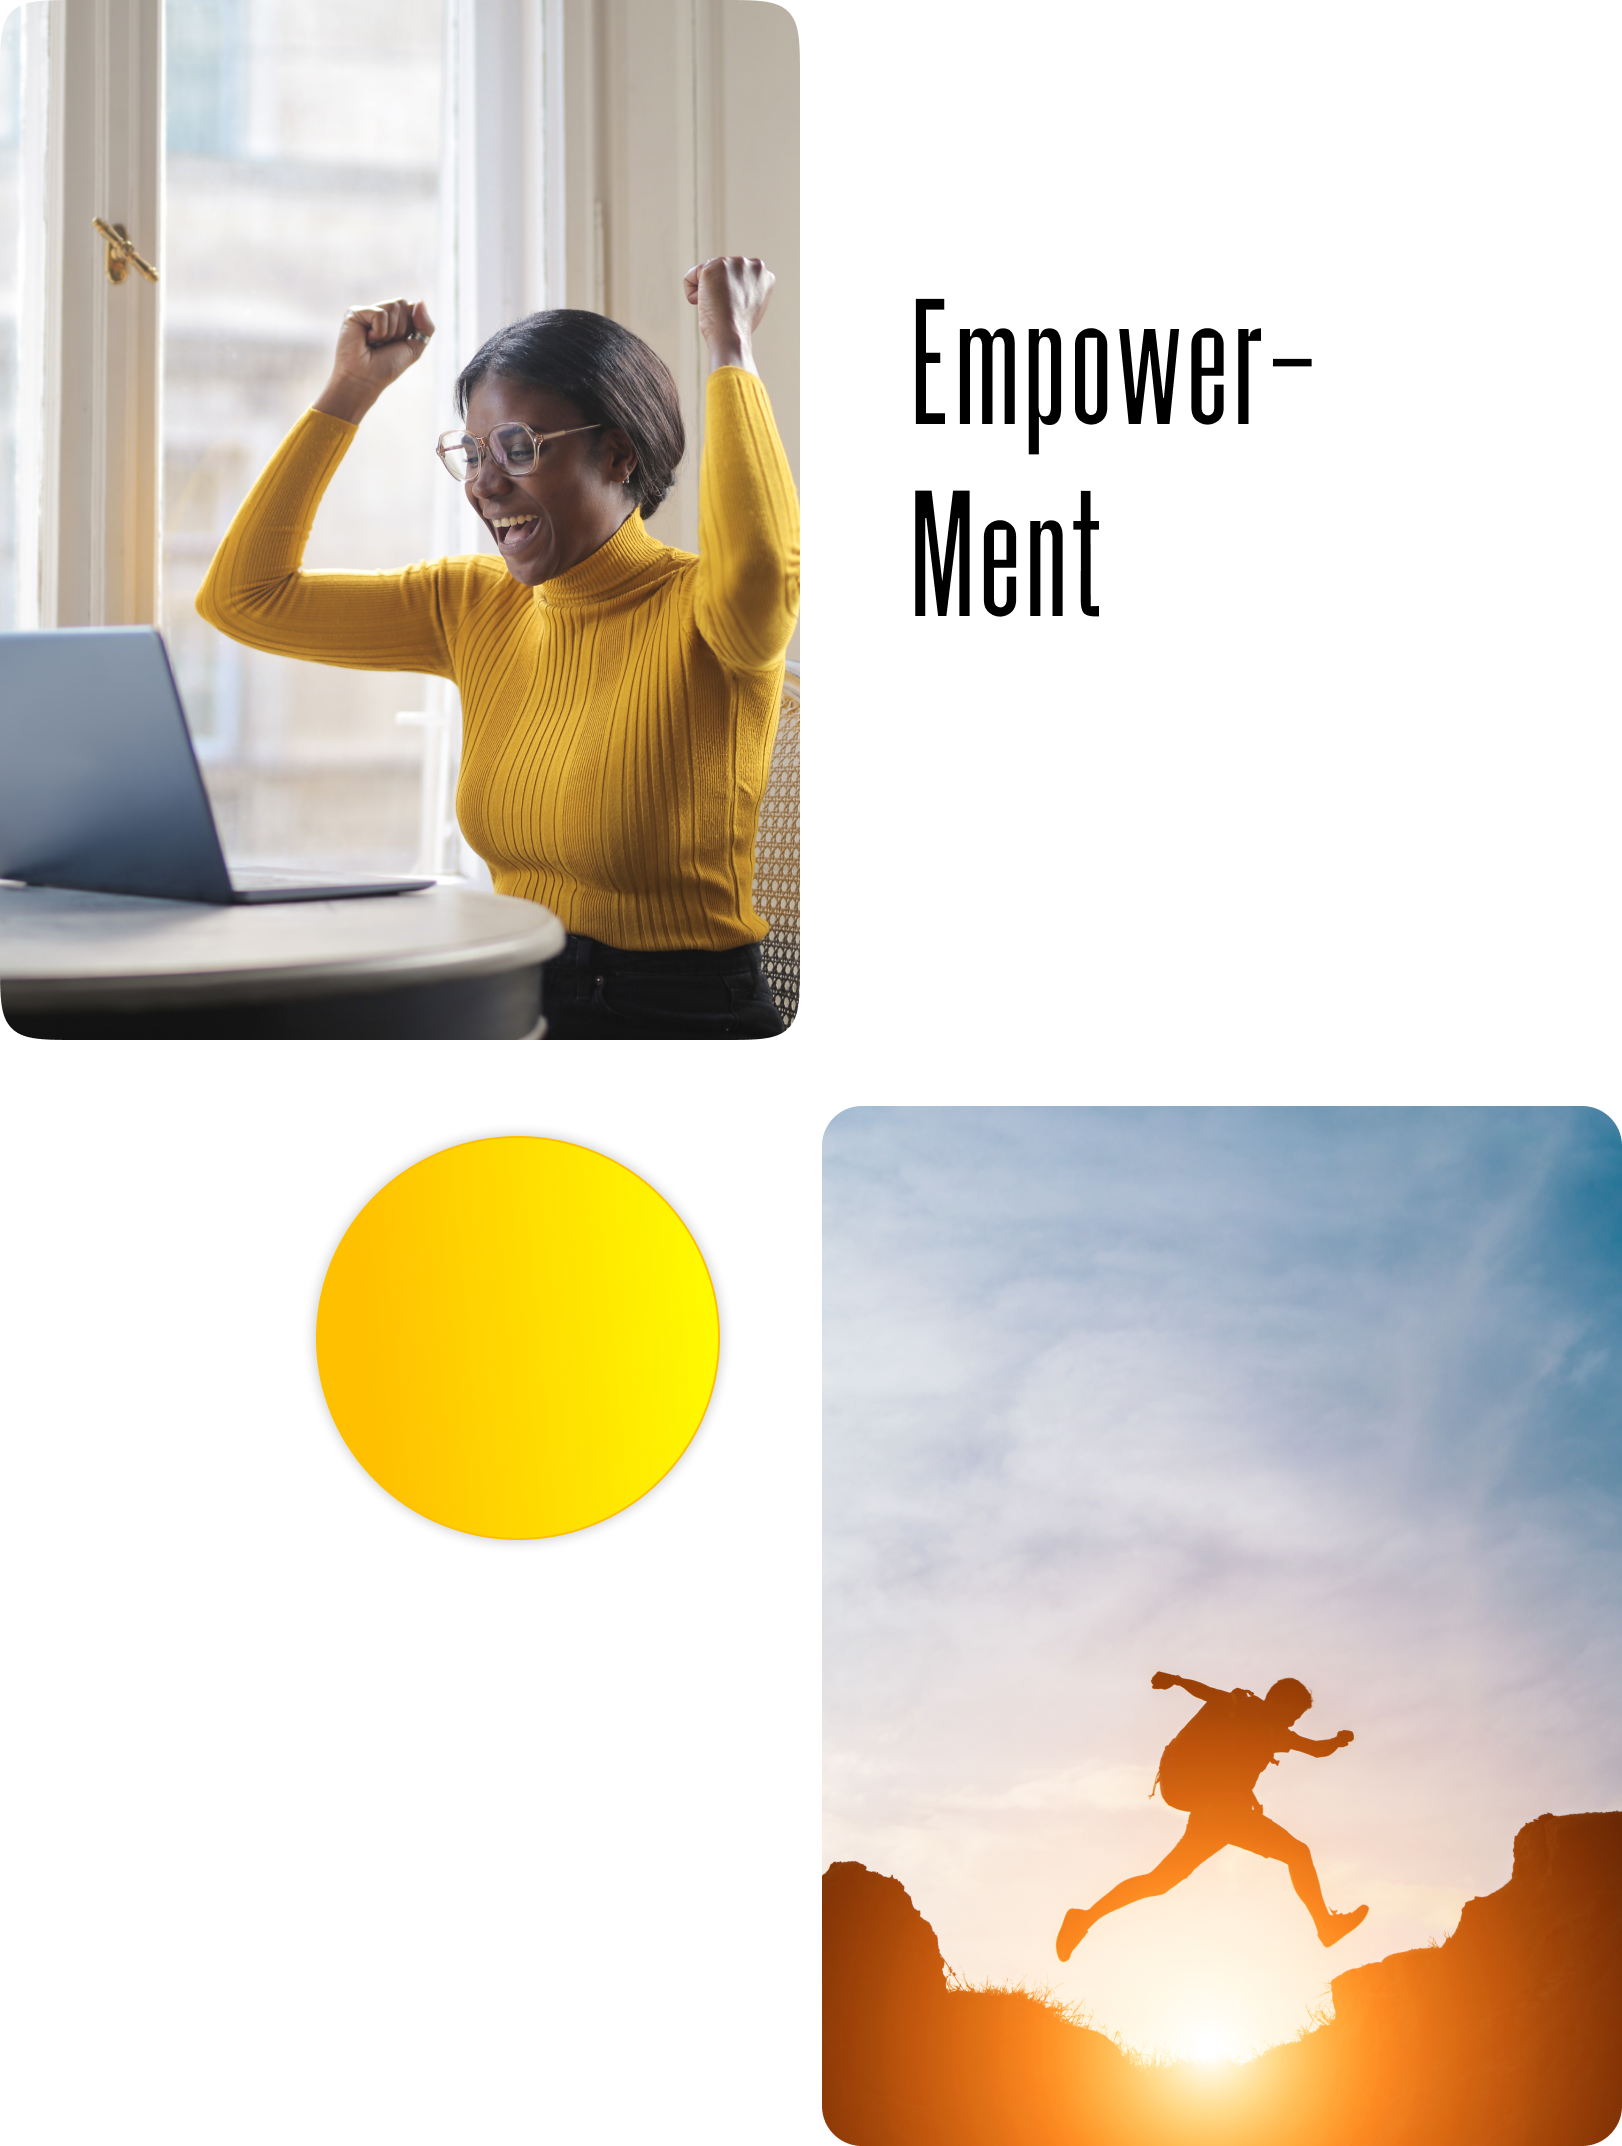
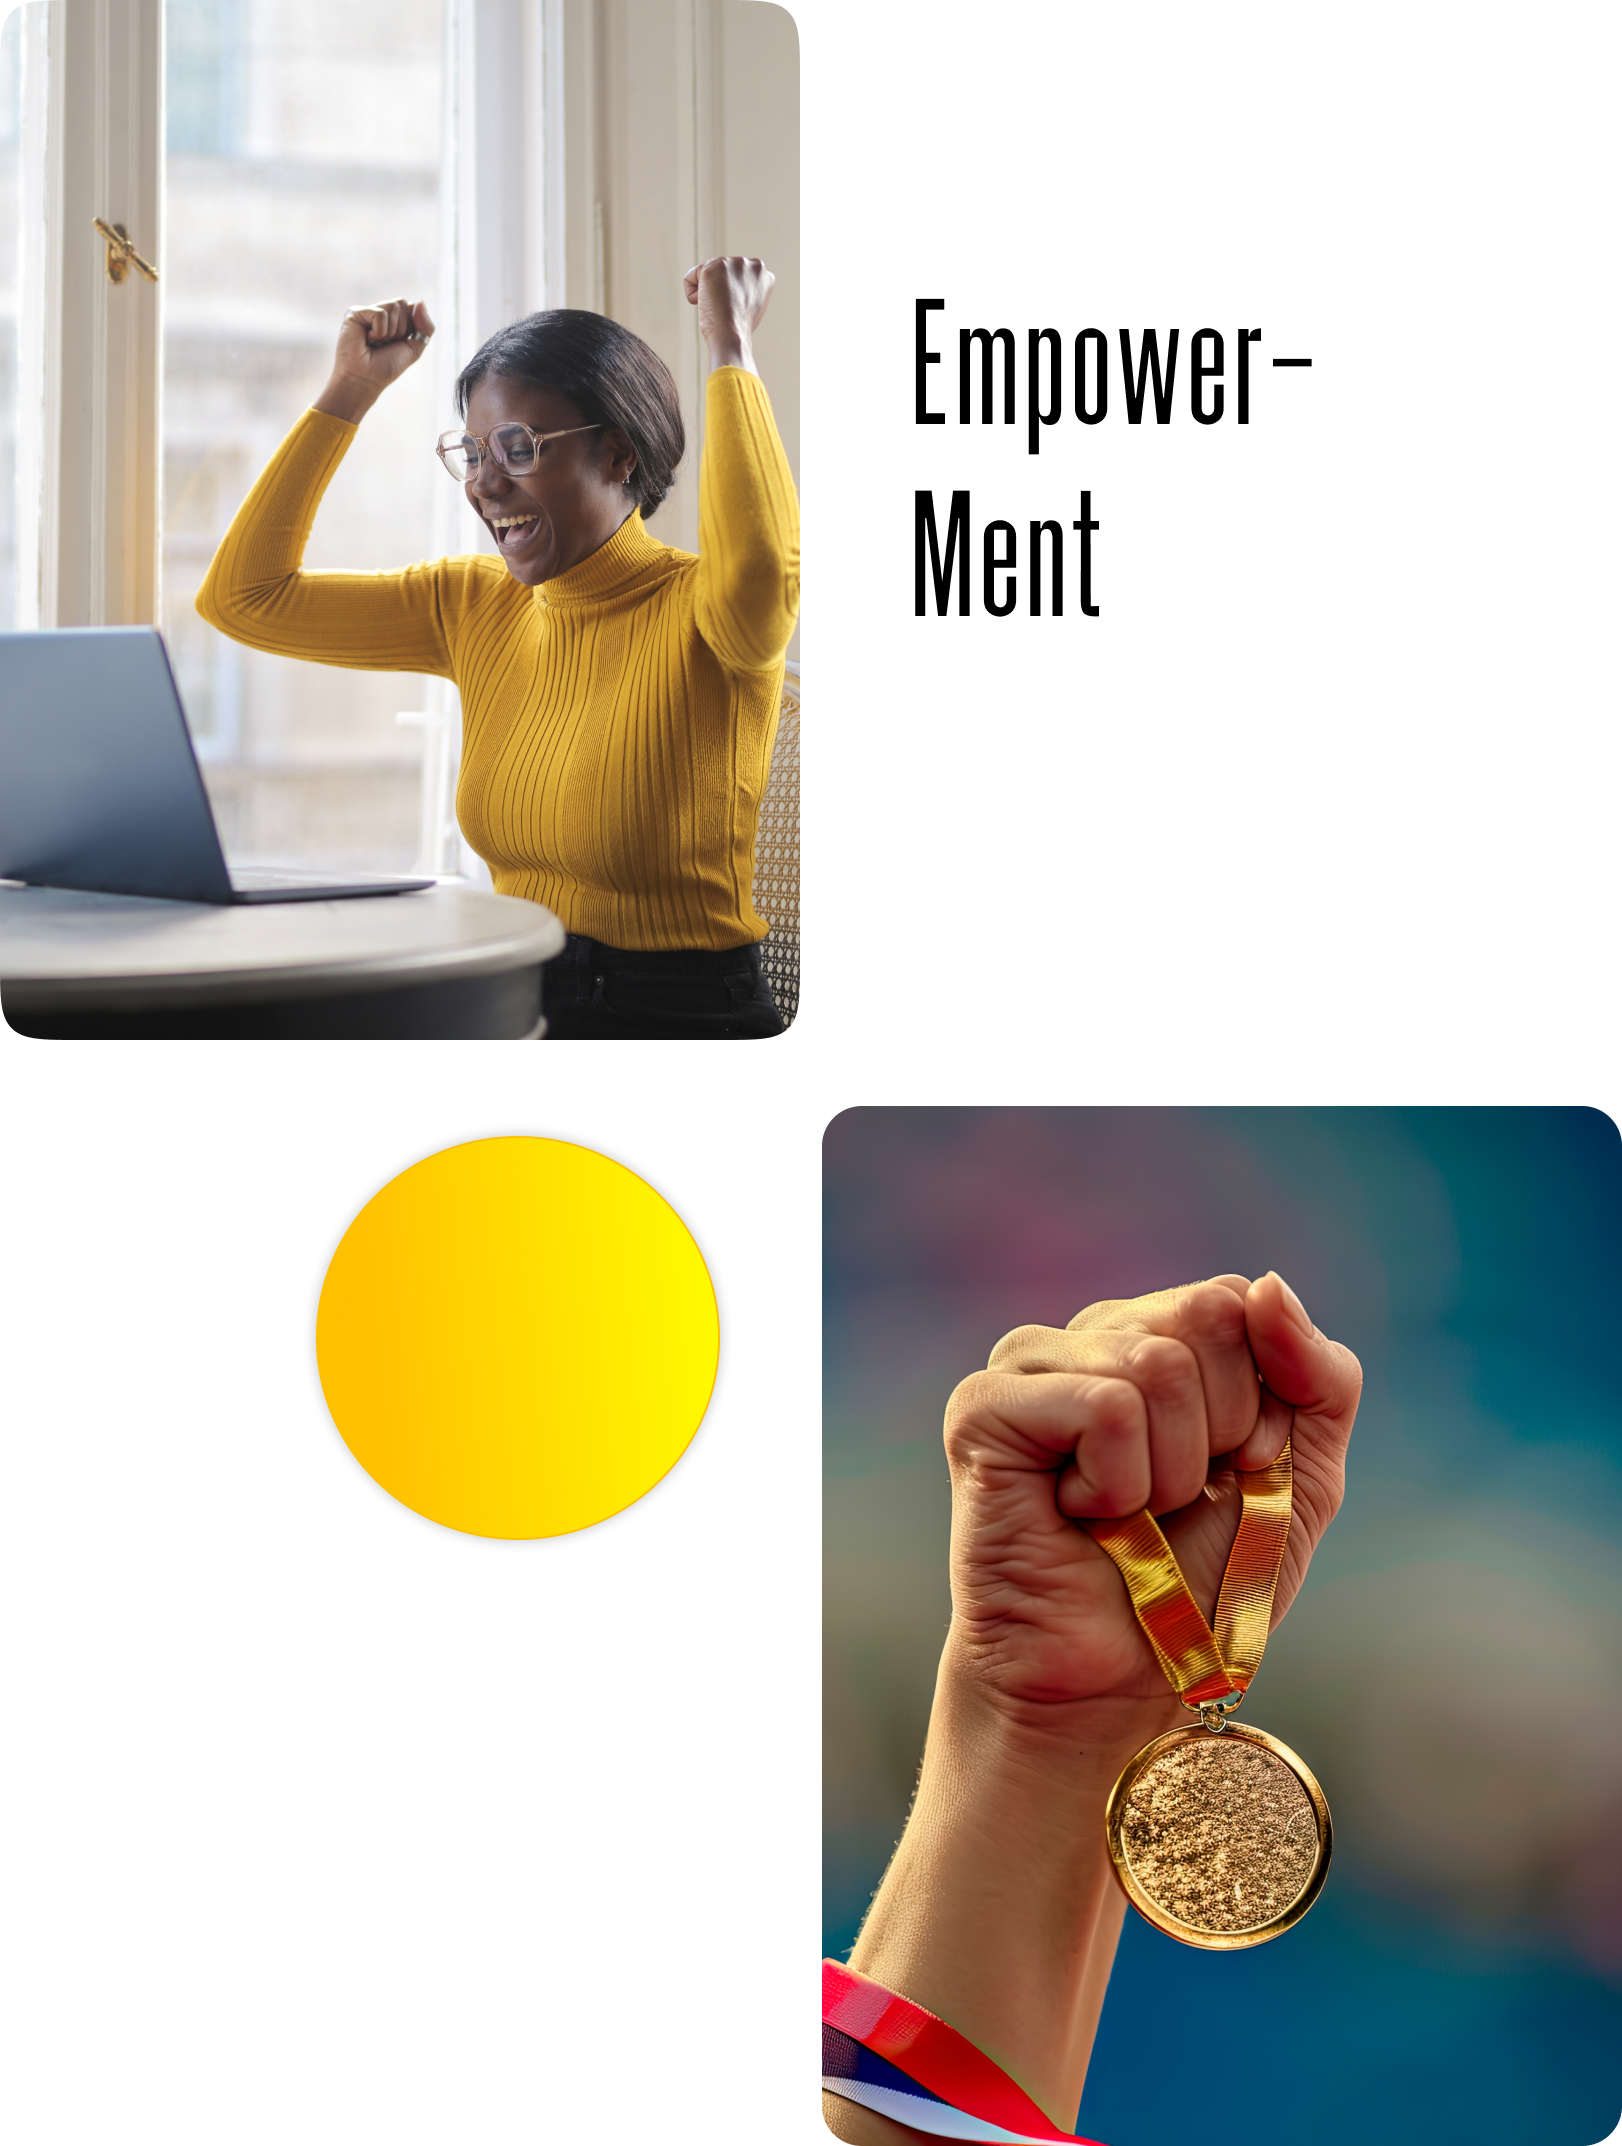
gif, emp, bg

Changed region(s): [[0.4932, 0.4995, 1.0, 1.0]]

diff --git a/src/index.css b/src/index.css
@@ -365,7 +365,13 @@ color: #001a70;
   /* overflow: hidden; */
     }
   }
-  
+
+  .bg-aboutt{
+    background-image: url(assets/IMG_9542.GIF);
+    background-position:scroll ;
+    background-size: cover;
+  }
+
 .content-inner{
   padding: 20px auto;
 }
@@ -587,8 +593,8 @@ box-shadow: 0px 0px 20px #FFC000;
     margin-left: auto;
     margin-right: auto;
     background-image: url(assets/IMG_9483.jpeg);
-    background-size: contain;
-    background-position: 90%;
+    background-size: cover;
+    background-position: 20%;
 
   }
   @media (min-width: 1024px) {
@@ -644,7 +650,8 @@ box-shadow: 0px 0px 20px #FFC000;
     margin-left: auto;
     margin-right: auto;
     background-image: url(assets/IMG_9543.JPG);
-    background-size: contain;
+    background-size: cover;
+    background-position: 60%;
    
 
   }
@@ -662,9 +669,9 @@ box-shadow: 0px 0px 20px #FFC000;
     height: 300px;
     margin-left: auto;
     margin-right: auto;
-    background-image: url(assets/IMG_9554.JPG);
+    background-image: url(assets/IMG_9553.JPG);
     background-size: cover;
-    background-position: 90%;
+     background-position: 60%; 
    
 
   }
@@ -683,7 +690,7 @@ box-shadow: 0px 0px 20px #FFC000;
     margin-left: auto;
     margin-right: auto;
     background-image: url(assets/IMG_9589.JPG);
-    background-size: contain;
+    background-size: cover;
      background-position: 50%; 
    
 
@@ -755,6 +762,12 @@ top: 60;
 width: 98vw;
 }
 
+.off-blue{
+
+
+background: linear-gradient(74.74deg, #EFEFF9 34.9%, #E7E8F2 60.34%);
+
+}
 
 /* scroll box///////////////////// */
 

diff --git a/src/components/about/About.jsx b/src/components/about/About.jsx
@@ -13,10 +13,10 @@ import ParaGuid from './ParaGuid'
 const About = () => {
   return (
     <section>
-    <div className='w-full overflow-hidden bg-black' >
+    <div className='w-full overflow-hidden off-blue' >
 
-      <div className='bg-white  h-[480px] mt-28' >
-      <div className='bg-white h-[20px] '></div>
+      <div className='bg-aboutt  h-[480px] mt-28' >
+      {/* <div className='bg-aboutt h-[20px] '></div> */}
       <Head />
     </div>
 

diff --git a/src/components/about/Head.jsx b/src/components/about/Head.jsx
@@ -3,7 +3,7 @@ import styles from '../../style'
 
 const Head = () => {
   return (
-    <section className='h-[480px] flex flex-col p-8 mt-24 bg-png '>
+    <section className='h-[480px] flex flex-col p-8 mt-24  '>
    
       <div className='mt-10 mx-auto'>
       <h2 className={`${styles.flexCenter} galgo text-8xl text-blck tracking-wide mt-10` }>
